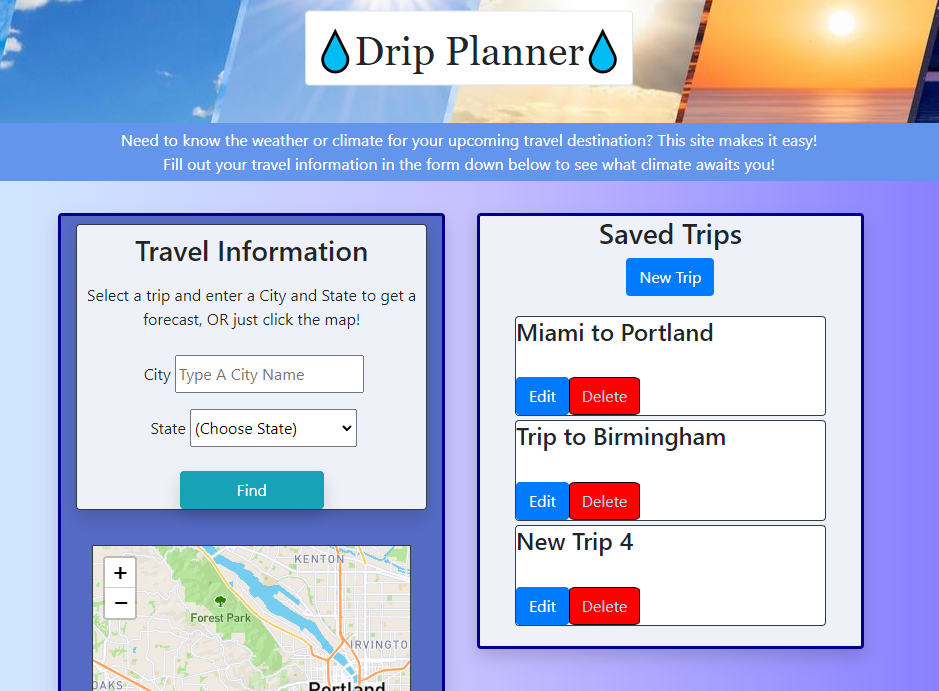
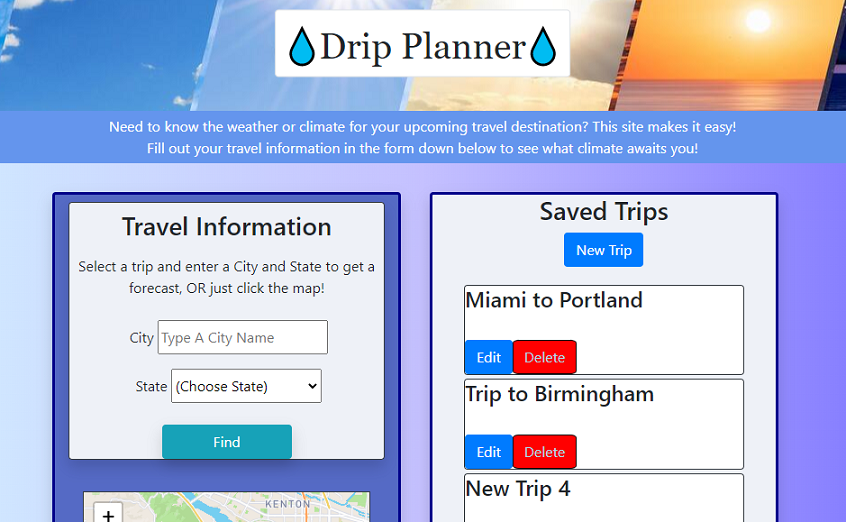
contact me & mobile-friendly

diff --git a/index.html b/index.html
@@ -14,8 +14,10 @@
         <h1>William Ingram</h1>
         <div class="contact">
             <h5>Contact:</h5>
-            <a href="mailto: waingram96@gmail.com">waingram96@gmail.com</a>
-            <p>+1 (901) 573-6120</p>
+            <div class="d-flex flex-row contact-subsection">
+                <a href="mailto: waingram96@gmail.com">waingram96@gmail.com</a>
+                <p>+1 (901) 573-6120</p>
+            </div>
         </div>
     </header>
     <div id="links">
@@ -25,7 +27,7 @@
     </div>
     <main>
         <section id="about-me" class="d-flex flex-column">
-            <div class="d-flex flex-row">
+            <div class="d-flex flex-row sub-section">
                 <div class="d-flex flex-column">
                     <h2>About Me</h2>
                     <p>Currently enrolled in the Vanderbilt Full-Stack Coding Bootcamp, I am an aspiring web developer. At the ripe young age of 25, I've had experience in various job markets including the industries of music, education, trucking, and supply chain.</p>
@@ -36,7 +38,7 @@
                         <li><strong>Running:</strong> I ran a half-marathon in November 2020. I have a dream of one day running a marathon, but I can't seem to stay un-injured!</li>
                     </ul>
                 </div>
-                <div class="pt-2">
+                <div class="pt-2 secondary-div">
                     <img src="./assets/images/me.jpg" style="width: 300px; height: 300px;">
                 </div>
             </div>
@@ -53,12 +55,12 @@
         </section>
         <section id="my-work">
             <h2>My Work</h2>
-            <a href="https://wingram1.github.io/drip-planner/">
+            <a class="screenshot-container" href="https://wingram1.github.io/drip-planner/">
                 <img src="./assets/images/drip-planner-main.png" class="screenshot" alt="picture of drip planner application">
             </a>
             <h3>Drip Planner</h3>
-            <div class="d-flex flex-row">
-                <div class="d-flex flex-column w-50">
+            <div class="d-flex flex-row w-100 sub-section">
+                <div class="d-flex flex-column w-50 secondary-div">
                     <p>Completed and submitted as my first group project for the Vanderbilt Coding Bootcamp, Drip Planner is a weather application that doubles as a travel application. Made for truck drivers, Drip Planner can grab specific forecasts from the National Weather Service (NWS) API, which the user can then organize into a custom trip.</p>
                     <h4>Technologies Used:</h4>
                     <ul>
@@ -71,7 +73,7 @@
                     <h4>How To Use:</h4>
                     <p>After creating a trip, the user can input a city/state or click the interactive map to generate a forecast for that area. The user can then view additional details of each forecast time-slot and/or add one to the selected trip. When the "Save" button is clicked, the trip will save to the device's local storage and return to the list of user-created trips.</p>
                 </div>
-                <div class="d-flex flex-column w-50">
+                <div class="d-flex flex-column w-50 secondary-div">
                     <a href="https://wingram1.github.io/drip-planner/">
                     <img src="./assets/images/drip-planner-forecast.png" class="screenshot">
                     </a>
@@ -80,9 +82,23 @@
                     </a>
                 </div>
             </div>
+            <h3>Coding Quiz</h3>
+            <div class="d-flex flex-row w-100 sub-section">
+                <div class="d-flex flex-column w-50 secondary-div">
+                    <p>Completed for the Vanderbilt Coding Bootcamp, my aptly-named Coding Quiz is a simple-yet-effective basic coding exercise. Once started, a timer will start in the top-right corner. As the user clicks on the provided answer choices for each question, they will see whether they got it wrong or right.</p>
+                    <p>When the quiz has finished either via user completion or time depletion, the user can input his/her score to be uploaded to the high scores. The high scores are stored in the device's local storage, and are ranked from highest-to-lowest with only the top 10 displayed.</p>
+                </div>
+                <div class="d-flex flex-row w-50 secondary-div">
+                    <a href="https://wingram1.github.io/coding-quiz/">
+                        <img class="screenshot" src="./assets/images/coding-quiz.png">
+                    </a>
+                </div>
+            </div>
         </section>
         <section id="contact-me">
             <h2>Contact Me</h2>
+            <p>Email: <a href="mailto: waingram96@gmail.com"><u>waingram96@gmail.com</u></a></p>
+            <p>Phone: +1 (901) 573-6120</p>
         </section>
     </main>
     </div>

diff --git a/assets/style.css b/assets/style.css
@@ -31,6 +31,7 @@ header h1 {
     display: flex;
     flex-direction: row;
     justify-content: end;
+    align-items: center;
     width: 100%;
 }
 
@@ -80,9 +81,12 @@ img {
 }
 
 section {
+    display: flex;
+    flex-direction: column;
     margin-bottom: 25px;
     background-color: rgba(0, 0, 0, .25);
     padding: 20px 20px 35px 30px;
+    justify-content: center;
 }
 
 section h2{
@@ -93,14 +97,66 @@ section h2{
 section h3 {
     border-bottom: 2px aliceblue solid;
     width: 35%;
+    margin-top: 25px;
 }
 section h4 {
-    border-bottom: 2px aliceblue solid;
+    border-bottom: 1px aliceblue solid;
     width: fit-content;
+}
+
+.screenshot-container {
+    width: fit-content;
+    margin: 0 auto;
 }
 
 .screenshot {
     width: 100%;
+    max-width: 70vw;
     height: auto;
     margin: 20px 0 20px 0;
+}
+
+#contact-me {
+    margin-bottom: 0;
+}
+
+.email {
+    color: lightblue;
+    margin-top: 100px;
+}
+
+.secondary-div {
+    width: 50%;
+}
+
+@media screen and (max-width: 767px) {
+    .sub-section {
+        flex-direction: column-reverse !important;
+        width: 100% !important;
+    }
+
+    img {
+        margin: auto !important;
+    }
+
+    a {
+        width: fit-content !important;
+        margin: auto !important;
+    }
+
+    .secondary-div {
+        display: flex !important;
+        justify-content: center !important;
+        width: 100% !important
+    }
+
+    .contact-subsection {
+        flex-direction: column !important;
+        margin-left: 10px;
+        justify-content: start !important;
+    }
+
+    .contact-subsection p {
+        margin-left: 0;
+    }
 }
